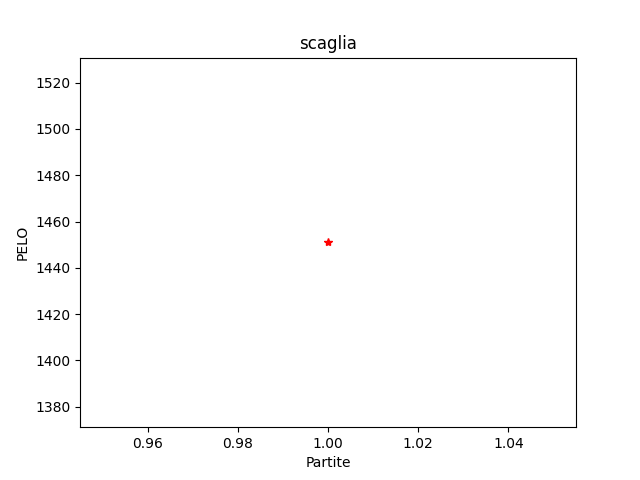
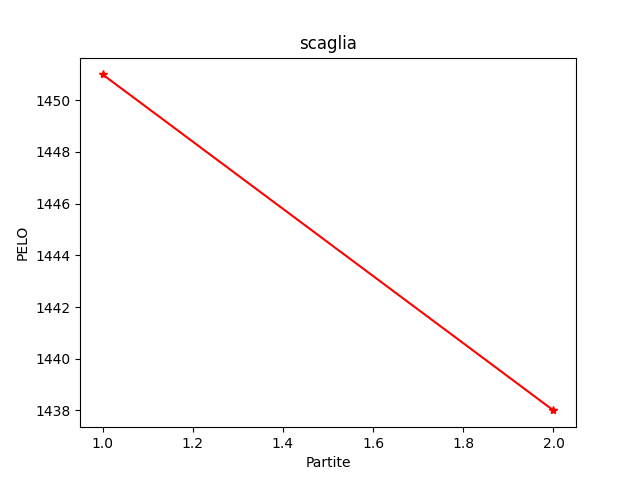
Add files via upload

diff --git a/index.htm b/index.htm
@@ -26,15 +26,6 @@
     </tr>
     <tr>
       <th>1</th>
-      <td><a href='caprile.png'>caprile</a></td>
-      <td>1649</td>
-      <td>94</td>
-      <td>64</td>
-      <td>1003</td>
-      <td>800</td>
-    </tr>
-    <tr>
-      <th>2</th>
       <td><a href='devigili.png'>devigili</a></td>
       <td>1595</td>
       <td>8</td>
@@ -43,7 +34,7 @@
       <td>57</td>
     </tr>
     <tr>
-      <th>3</th>
+      <th>2</th>
       <td><a href='zontini.png'>zontini</a></td>
       <td>1593</td>
       <td>126</td>
@@ -52,22 +43,31 @@
       <td>1211</td>
     </tr>
     <tr>
+      <th>3</th>
+      <td><a href='caprile.png'>caprile</a></td>
+      <td>1591</td>
+      <td>99</td>
+      <td>65</td>
+      <td>1041</td>
+      <td>851</td>
+    </tr>
+    <tr>
       <th>4</th>
+      <td><a href='castellani.png'>castellani</a></td>
+      <td>1578</td>
+      <td>247</td>
+      <td>103</td>
+      <td>2268</td>
+      <td>2506</td>
+    </tr>
+    <tr>
+      <th>5</th>
       <td><a href='turino.png'>turino</a></td>
       <td>1539</td>
       <td>3</td>
       <td>3</td>
       <td>33</td>
       <td>15</td>
-    </tr>
-    <tr>
-      <th>5</th>
-      <td><a href='castellani.png'>castellani</a></td>
-      <td>1501</td>
-      <td>241</td>
-      <td>98</td>
-      <td>2206</td>
-      <td>2462</td>
     </tr>
     <tr>
       <th>6</th>
@@ -89,21 +89,21 @@
     </tr>
     <tr>
       <th>8</th>
-      <td><a href='scaglia.png'>scaglia</a></td>
-      <td>1451</td>
-      <td>13</td>
-      <td>4</td>
-      <td>103</td>
-      <td>138</td>
-    </tr>
-    <tr>
-      <th>9</th>
       <td><a href='tronza.png'>tronza</a></td>
       <td>1443</td>
       <td>6</td>
       <td>1</td>
       <td>51</td>
       <td>64</td>
+    </tr>
+    <tr>
+      <th>9</th>
+      <td><a href='scaglia.png'>scaglia</a></td>
+      <td>1438</td>
+      <td>14</td>
+      <td>4</td>
+      <td>109</td>
+      <td>149</td>
     </tr>
     <tr>
       <th>10</th>
